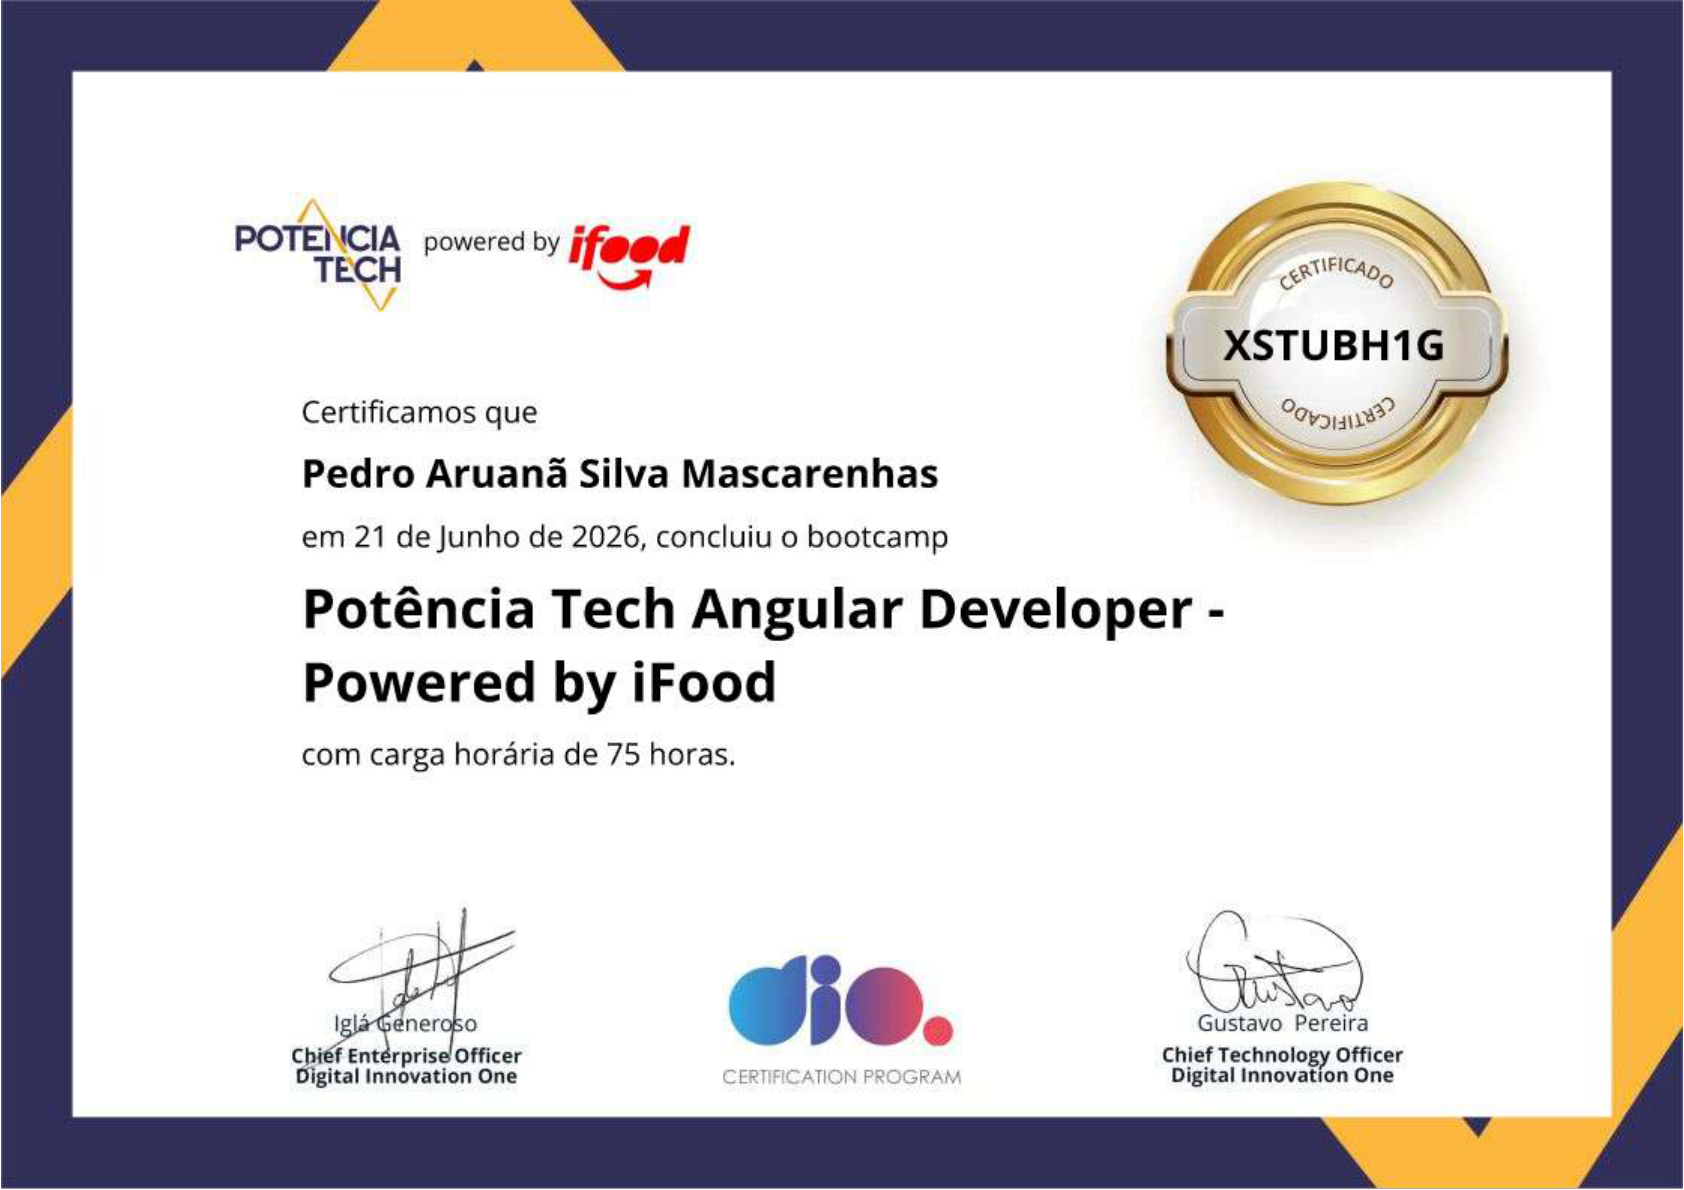
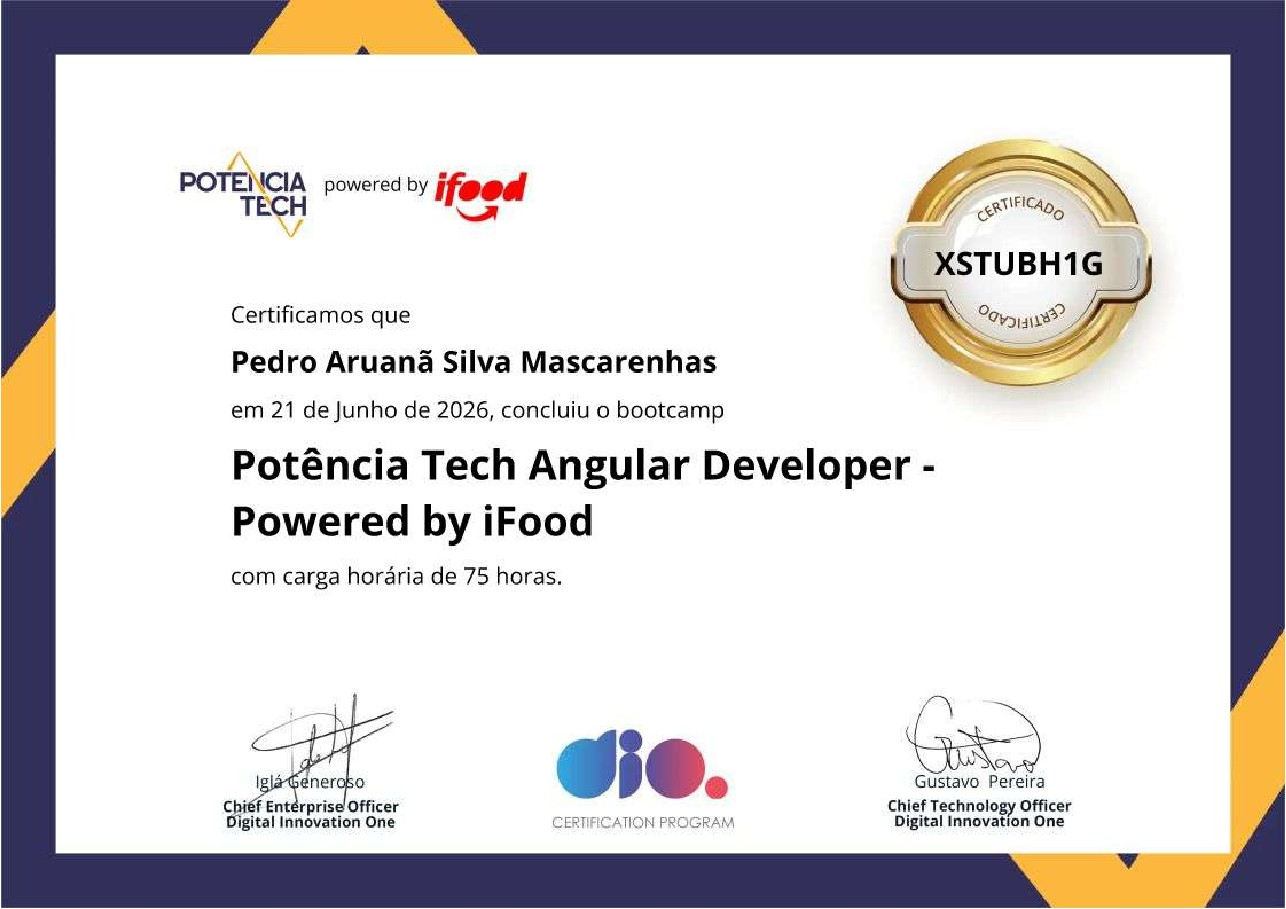
adicionar certificados AWS, DIO, Kaggle e LinuxTips com imagens reais

diff --git a/index.html b/index.html
@@ -734,6 +734,42 @@
           <button class="cert-view-btn" onclick="openCert('certs/cert-scrumstudy-sfc.png')" data-i18n="cert.view-btn">Ver certificado ↗</button>
         </div>
 
+        <div class="cert-card extra">
+          <div class="cert-icon"><img src="https://www.google.com/s2/favicons?domain=aws.amazon.com&sz=128" alt="AWS" style="background:#fff;border-radius:6px;padding:2px"></div>
+          <h3 class="cert-title">AWS Cloud Practitioner</h3>
+          <span class="cert-issuer">Amazon Web Services (AWS)</span>
+          <span class="cert-period">2026</span>
+          <div class="cert-tags"><span>AWS</span><span>Cloud</span></div>
+          <button class="cert-view-btn" onclick="openCert('certs/cert-aws-cloud-practitioner.png')" data-i18n="cert.view-btn">Ver certificado ↗</button>
+        </div>
+
+        <div class="cert-card extra">
+          <div class="cert-icon"><img src="https://www.google.com/s2/favicons?domain=dio.me&sz=128" alt="DIO" style="background:#fff;border-radius:6px;padding:2px"></div>
+          <h3 class="cert-title">Potência Tech Angular Developer — Powered by iFood</h3>
+          <span class="cert-issuer">DIO</span>
+          <span class="cert-period">2026</span>
+          <div class="cert-tags"><span>Angular</span><span>Angular Material</span></div>
+          <button class="cert-view-btn" onclick="openCert('certs/cert-dio-angular.png')" data-i18n="cert.view-btn">Ver certificado ↗</button>
+        </div>
+
+        <div class="cert-card extra">
+          <div class="cert-icon"><img src="https://cdn.simpleicons.org/kaggle/20BEFF" alt="Kaggle"></div>
+          <h3 class="cert-title">Advanced SQL</h3>
+          <span class="cert-issuer">Kaggle</span>
+          <span class="cert-period">2026</span>
+          <div class="cert-tags"><span>SQL</span><span>Google BigQuery</span></div>
+          <button class="cert-view-btn" onclick="openCert('certs/cert-kaggle-advanced-sql.png')" data-i18n="cert.view-btn">Ver certificado ↗</button>
+        </div>
+
+        <div class="cert-card extra">
+          <div class="cert-icon"><img src="https://www.google.com/s2/favicons?domain=linuxtips.io&sz=128" alt="LINUXtips" style="background:#fff;border-radius:6px;padding:2px"></div>
+          <h3 class="cert-title">Docker Essentials</h3>
+          <span class="cert-issuer">LINUXtips</span>
+          <span class="cert-period">2026</span>
+          <div class="cert-tags"><span>Docker</span></div>
+          <button class="cert-view-btn" onclick="openCert('certs/cert-linuxtips-docker.png')" data-i18n="cert.view-btn">Ver certificado ↗</button>
+        </div>
+
       </div>
 
       <div class="certs-toggle">
